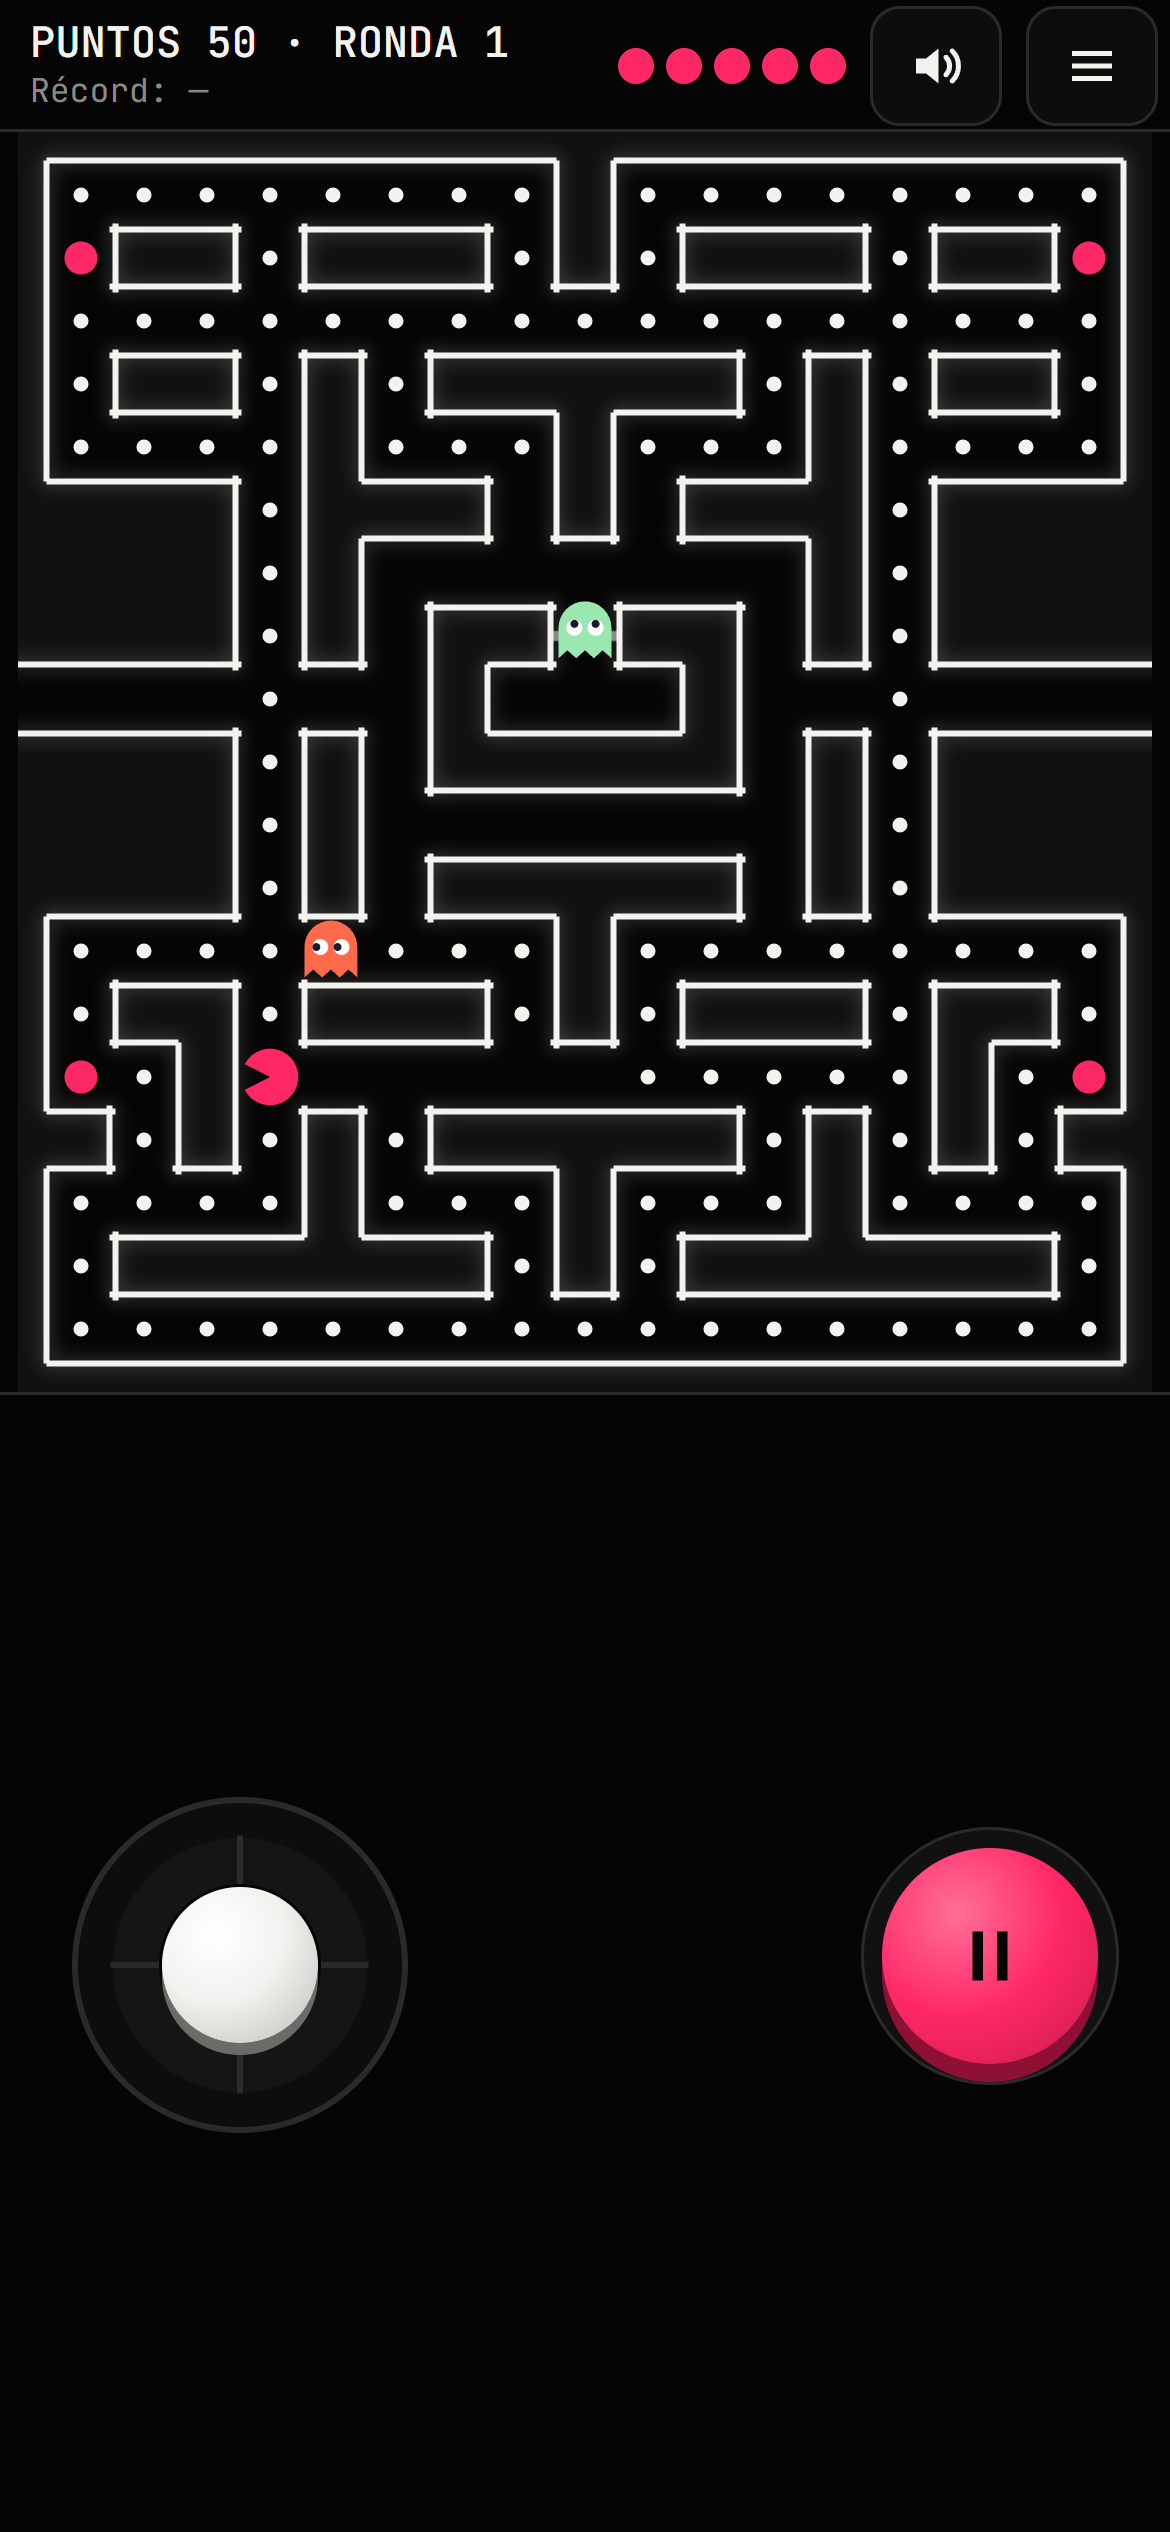
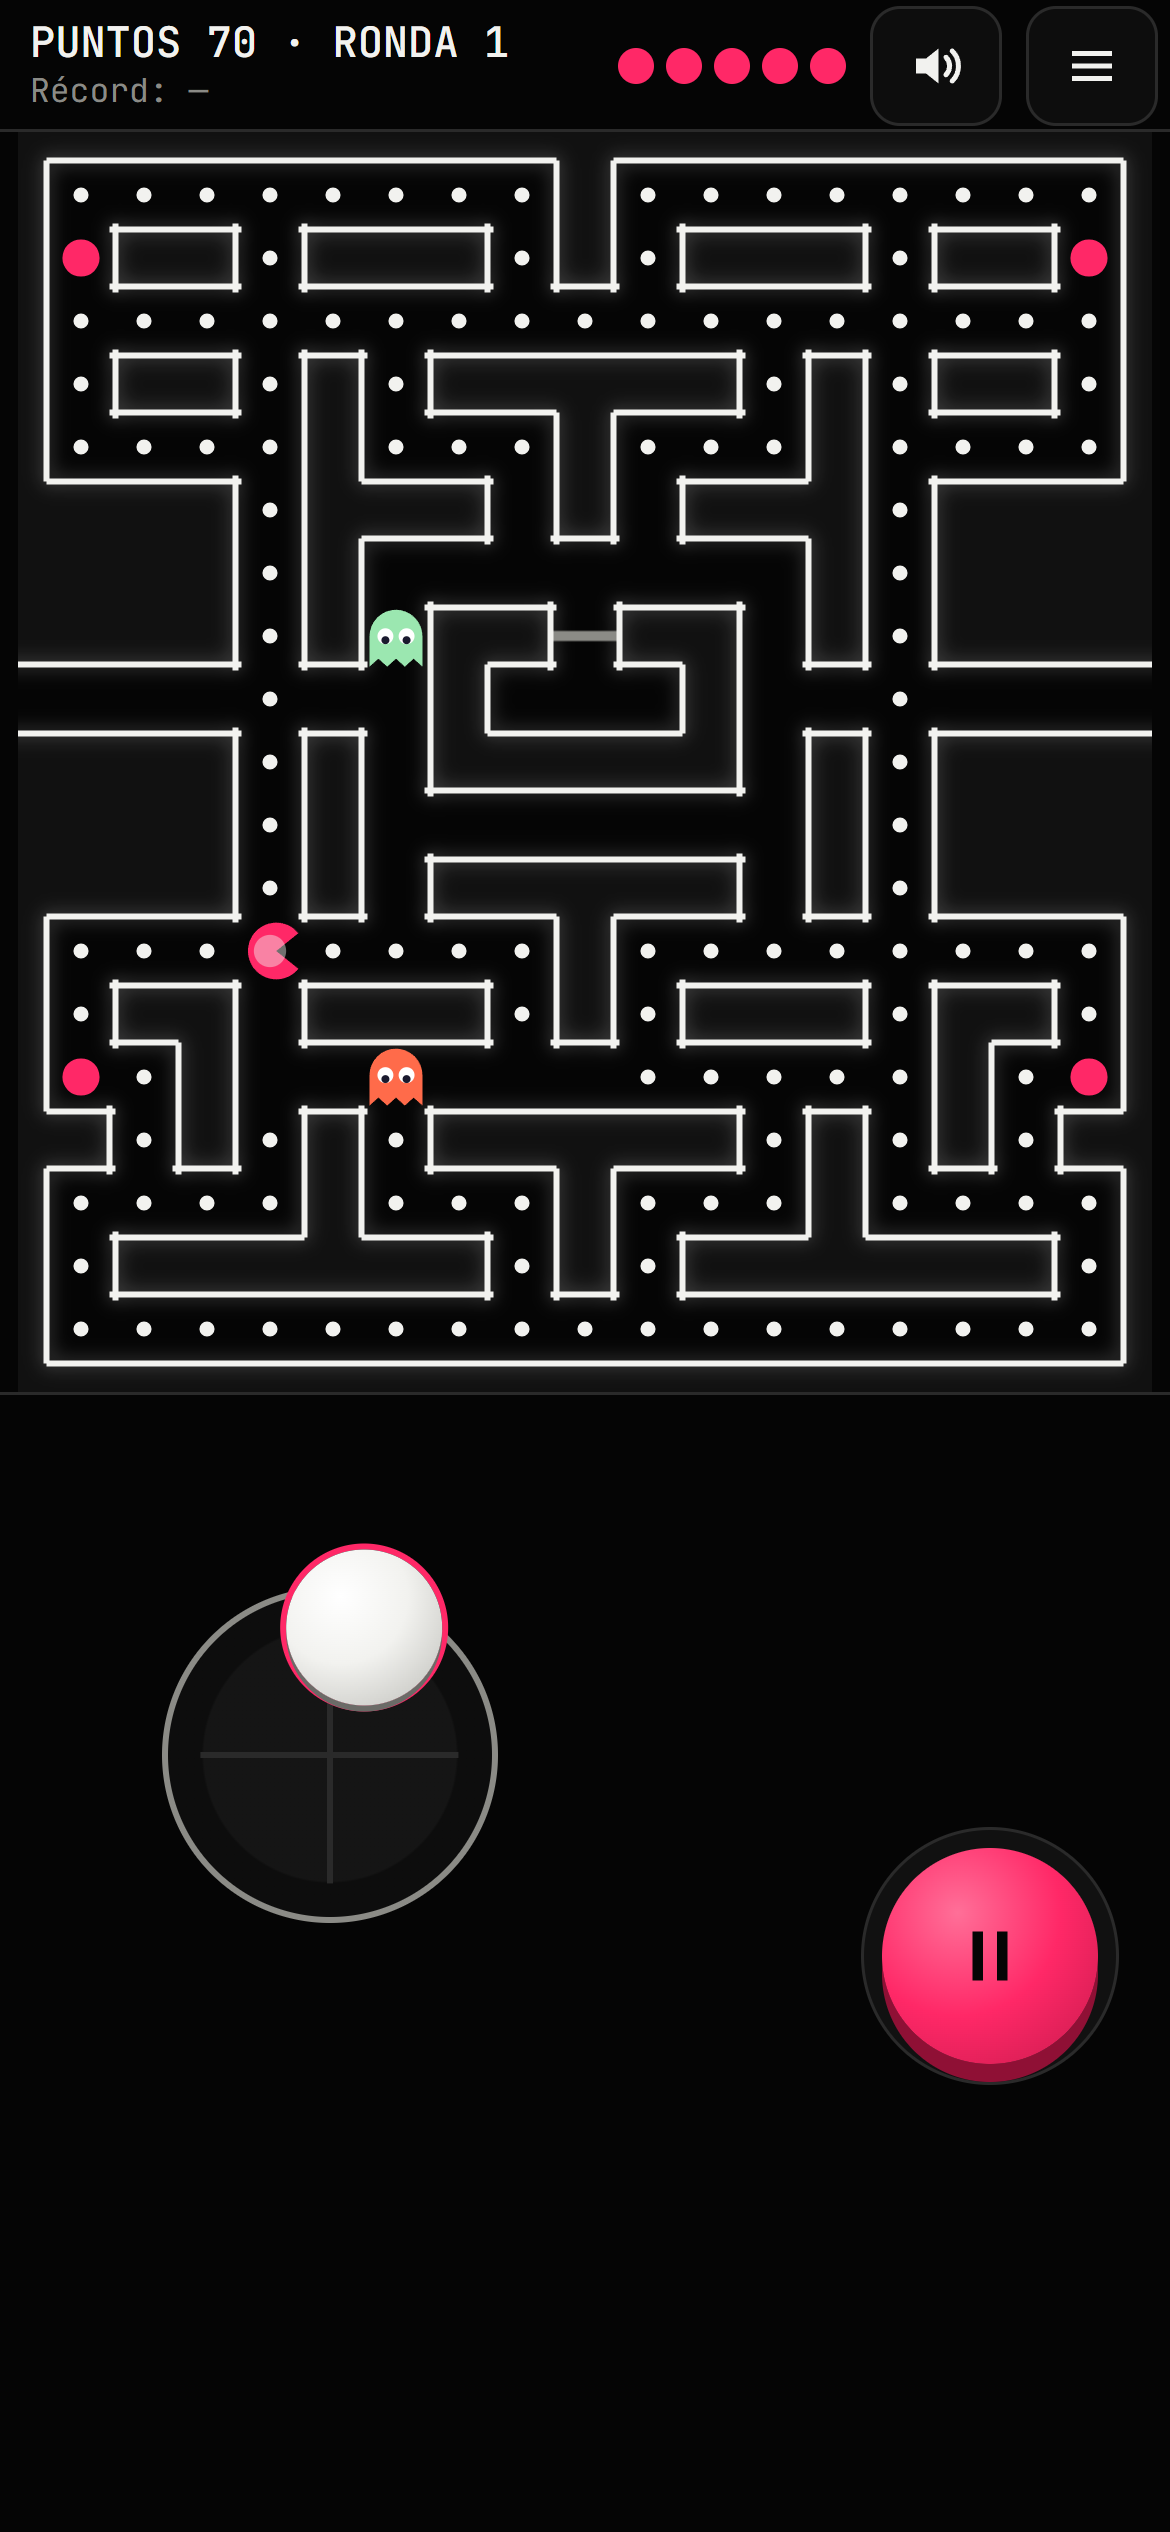
docs(cap5): joystick flotante en guia, diapositivas y prompts
Guia, diapositivas 2, 4 y 5 del capitulo 5, alt del capitulo 0 y prompt de la fase 2 describen el joystick flotante (aparece donde pones el pulgar, sigue al dedo, diagonales, vibracion si hay). Prompt de 12 lineas, Si no sabes con flotante/fijo/cruceta/solo deslizar y revisiones nuevas. Capturas nuevas: polka-man-movil, prueba-la-muestra, que-vas-a-construir.

Verificado: revisar.mjs 05 (17/17 bien) y 00 (4/4 bien), codigo 0; pnpm test 379/379; pnpm build OK.

diff --git a/slides/05-el-juego.html b/slides/05-el-juego.html
@@ -204,14 +204,14 @@
     <div class="item" style="left:110px; top:70px;"><div class="h">Qué vas a construir</div></div>
     <div class="item" style="left:110px; top:170px; width:940px; font:700 34px/1.3 var(--display);">Una app y un <span class="j-pink">smart contract</span> dentro de Polkadot, construidos con IA, en tu propio dominio <span class="j-pink">.dot</span>.</div>
     <div class="item j-rows" style="left:110px; top:360px; width:920px;">
-      <div style="grid-template-columns:240px 1fr;"><span class="k">Tu app</span><span>un juego tipo Pac-Man para el celular, con joystick, música y sonido 8 bits</span></div>
+      <div style="grid-template-columns:240px 1fr;"><span class="k">Tu app</span><span>un juego tipo Pac-Man para el celular, con joystick flotante, música y sonido 8 bits</span></div>
       <div style="grid-template-columns:240px 1fr;"><span class="k">Tu contrato</span><span>guarda el mejor puntaje; lo despliegas tú</span></div>
       <div style="grid-template-columns:240px 1fr;"><span class="k">Con IA</span><span>lo construyes fase por fase</span></div>
       <div style="grid-template-columns:240px 1fr;"><span class="k">Tu .dot</span><span>lo publicas en <span class="j-pink">tu propio dominio</span></span></div>
     </div>
     <div class="item lead j-mut" style="left:110px; top:700px; width:920px; font-size:22px;">Las reglas las decides tú en la fase 0.</div>
     <div class="item" style="left:1160px; top:60px; width:300px;">
-      <div class="j-phone"><img src="../img/cap5/polka-man-movil.png" alt="Polka-Man en un celular de 390 px: HUD con puntaje, ronda, 5 vidas y menú; el laberinto grande con Polka-Man rosa y dos fantasmas; el joystick y el botón rojo de pausa abajo"></div>
+      <div class="j-phone"><img src="../img/cap5/polka-man-movil.png" alt="Polka-Man en un celular de 390 px: HUD con puntaje, ronda, 5 vidas y menú; el laberinto grande con Polka-Man rosa y dos fantasmas; el joystick flotante bajo el dedo y el botón rojo de pausa abajo"></div>
     </div>
   </section>
 
@@ -253,7 +253,7 @@
     </div>
     <div class="panel j-checks" style="left:110px; top:320px; width:960px; padding:18px 44px;">
       <div><span class="j-box"></span><span>Empezar en la pantalla de inicio y conectar tu cuenta</span></div>
-      <div><span class="j-box"></span><span>Moverte con el joystick, también en diagonal</span></div>
+      <div><span class="j-box"></span><span>Moverte con el joystick flotante, también en diagonal</span></div>
       <div><span class="j-box"></span><span>Comer bolitas y fantasmas; cada ronda más difícil</span></div>
       <div><span class="j-box"></span><span>Música y efectos 8 bits, cada uno con su botón</span></div>
       <div><span class="j-box"></span><span>Guardar tu récord: los pasos salen en un popup</span></div>
@@ -261,7 +261,7 @@
     </div>
     <div class="item lead j-mut" style="left:110px; top:740px; width:960px; font-size:20px;">Conectada a un contrato Leaderboard ya desplegado: <span class="j-code">0x0aAf…0Ac9</span>. Juega 5 minutos y anota 3 cosas que harías distinto.</div>
     <div class="item" style="left:1170px; top:50px; width:300px;">
-      <div class="j-phone"><div class="j-url">polka-man.dot</div><img src="../img/cap5/polka-man-movil.png" alt="Polka-Man en el celular: HUD con puntaje, ronda, vidas y menú; el laberinto grande con Polka-Man rosa y dos fantasmas; el joystick y el botón rojo de pausa abajo"></div>
+      <div class="j-phone"><div class="j-url">polka-man.dot</div><img src="../img/cap5/polka-man-movil.png" alt="Polka-Man en el celular: HUD con puntaje, ronda, vidas y menú; el laberinto grande con Polka-Man rosa y dos fantasmas; el joystick flotante bajo el dedo y el botón rojo de pausa abajo"></div>
     </div>
   </section>
 
@@ -274,7 +274,7 @@
     <div class="item j-rows" style="left:500px; top:180px; width:990px;">
       <div style="grid-template-columns:250px 1fr;"><span class="k">Inicio</span><span>Jugar, Conectar cuenta, Ranking y Username</span></div>
       <div style="grid-template-columns:250px 1fr;"><span class="k">Menú</span><span>pestañas Username y Ranking, fondos opacos</span></div>
-      <div style="grid-template-columns:250px 1fr;"><span class="k">Controles</span><span>joystick con diagonales y pausa redonda</span></div>
+      <div style="grid-template-columns:250px 1fr;"><span class="k">Controles</span><span>joystick flotante con diagonales y pausa redonda</span></div>
       <div style="grid-template-columns:250px 1fr;"><span class="k">Fantasmas</span><span>por color, todos con la misma regla; a veces eligen al azar</span></div>
       <div style="grid-template-columns:250px 1fr;"><span class="k">Sonido</span><span>efectos 8 bits y música original, sin archivos</span></div>
       <div style="grid-template-columns:250px 1fr;"><span class="k">Música y Efectos</span><span>se silencian por separado</span></div>

diff --git a/slides/00-introduccion.html b/slides/00-introduccion.html
@@ -46,7 +46,7 @@
     </div>
     <div class="item lead" style="left:110px; top:710px; width:960px; font-size:22px;">Ejemplo: Polka-Man en <span class="pink">polka-man.dot</span>. En el hackatón construyes la tuya de la misma forma.</div>
     <div class="item" style="left:1160px; top:90px; width:300px;">
-      <div class="i-phone"><div class="i-url">polka-man.dot</div><img src="../img/cap5/polka-man-movil.png" alt="Polka-Man en el celular: HUD con puntaje, ronda, vidas y menú; el laberinto grande con Polka-Man rosa y dos fantasmas; el joystick y el botón rojo de pausa abajo"></div>
+      <div class="i-phone"><div class="i-url">polka-man.dot</div><img src="../img/cap5/polka-man-movil.png" alt="Polka-Man en el celular: HUD con puntaje, ronda, vidas y menú; el laberinto grande con Polka-Man rosa y dos fantasmas; el joystick flotante bajo el dedo y el botón rojo de pausa abajo"></div>
     </div>
   </section>
 

diff --git a/prompts/02-laberinto.md b/prompts/02-laberinto.md
@@ -1,14 +1,16 @@
 # Fase 2 · Laberinto y movimiento
 
-Al terminar ves tu laberinto y mueves al personaje con teclado, swipe o un joystick tipo Atari
-que entiende diagonales, con un botón redondo de pausa. 30 a 35 minutos.
+Al terminar ves tu laberinto y mueves al personaje con teclado, swipe o un joystick flotante
+que aparece donde pones el pulgar y entiende diagonales, con un botón redondo de pausa.
+30 a 35 minutos.
 
 ## Antes de pedir
 
 - ¿Qué tamaño tiene tu laberinto y cómo lo quieres editar? (p. ej. "19 x 21, escrito como texto,
   igual que la muestra").
-- ¿Con qué se mueve? (p. ej. "flechas en la PC; en el celular, swipe y un joystick tipo Atari
-  con diagonales, y un botón redondo de pausa").
+- ¿Con qué se mueve? (p. ej. "flechas en la PC; en el celular, swipe y un joystick flotante:
+  aparece donde pones el dedo en la zona de abajo y lo sigue, con diagonales; botón redondo
+  de pausa a la derecha").
 - Si el jugador pide girar antes de llegar a un cruce, ¿qué pasa? (p. ej. "gira al llegar").
 - ¿Hay túnel para salir por un lado y entrar por el otro? (p. ej. "sí, uno en medio").
 
@@ -18,15 +20,16 @@ Escribe tus respuestas en `SPEC.md`.
 
 ```text
 Lee SPEC.md (y el spec de esta parte si existe) y AGENTS.md.
-Dibuja el laberinto en el canvas y haz que el personaje se mueva por él con los controles
-de SPEC.md. Debe detenerse en las paredes y girar en los cruces.
-En el celular, un joystick que también entienda diagonales: si lo inclinas arriba y a
-la derecha, gira a la derecha en el primer cruce donde se pueda.
-Agrega un botón redondo de pausa. Si el jugador cambia de pestaña, el juego se pausa y no
-se reanuda solo.
-Todavía sin bolitas ni fantasmas.
-Si te falta algún dato o hay que decidir algo que no está en SPEC.md, pregúntame antes de
-escribir código.
+Dibuja el laberinto en el canvas y mueve al personaje con los controles de SPEC.md:
+se detiene en las paredes y gira en los cruces.
+En el celular, un joystick flotante en la zona de abajo: aparece donde tocas, la base sigue
+al dedo si te alejas y entiende diagonales (arriba y a la derecha gira a la derecha en el
+primer cruce). Al soltar se desvanece y el personaje sigue hasta la pared. Vibra un poco al
+cambiar de dirección si se puede y muestra «Toca y arrastra» en la primera ronda. La página
+no se mueve al arrastrar y otro dedo puede tocar la pausa, un botón redondo a la derecha.
+Si cambias de pestaña, se pausa y no sigue solo. Todavía sin bolitas ni fantasmas.
+Los números van en el archivo de reglas.
+Si te falta algo, pregúntame antes de escribir código.
 Primero dime tu plan.
 ```
 
@@ -38,17 +41,37 @@ contras para un principiante que lo quiere editar a mano, recomiéndame una y no
 código.
 ```
 
+```text
+No sé qué control táctil conviene en el celular. Compárame con pros y contras: joystick
+flotante (aparece donde tocas), joystick fijo en una esquina, cruceta de botones y solo
+deslizar sobre el laberinto. Piensa en el pulgar que se sale del control y en las diagonales.
+Recomiéndame uno y no escribas código.
+```
+
+Lo que suele salir: el joystick flotante no se pierde aunque el pulgar se mueva, pero no se ve
+hasta que tocas (por eso la pista); el fijo se ve siempre, pero el pulgar se sale de él; la
+cruceta es clara, pero no da diagonales; solo deslizar no tapa nada, pero cuesta encadenar giros.
+
 ## Al terminar, revisa
 
 - El personaje se detiene en las paredes y no las atraviesa.
 - Si pides girar un poco antes del cruce, gira en el cruce.
-- En DevTools, con la vista de celular, aparecen el joystick y el botón de pausa, y el swipe funciona.
-- Con el joystick casi arriba y un poco a la derecha, gira a la derecha en el siguiente cruce.
+- En DevTools, con la vista de celular, aparecen la pista «Toca y arrastra» y el botón de pausa,
+  y el swipe funciona.
+- El joystick aparece donde pones el pulgar.
+- Si el dedo sale del círculo no pierdes el control: la base te sigue.
+- En diagonal gira en cuanto hay camino: casi arriba y un poco a la derecha, gira a la derecha
+  en el siguiente cruce.
+- Al soltar, el personaje sigue hasta la pared.
+- Con un dedo en el joystick puedes tocar la pausa con otro.
+- La página no se mueve al arrastrar.
 - Al cambiar de pestaña el juego queda en pausa y no se reanuda solo al volver.
 
 ```text
-Escribe tests para estos casos: el personaje no entra a una pared, gira en un cruce y el
-juego queda en pausa al cambiar de pestaña. Después dime 3 casos raros que no consideré.
+Escribe tests para estos casos: el personaje no entra a una pared, gira en un cruce, el
+juego queda en pausa al cambiar de pestaña, el joystick aparece donde tocas, cerca del
+centro no da dirección y la base sigue al dedo cuando se aleja. Después dime 3 casos raros
+que no consideré.
 ```
 
 Revisa el `git diff` ([capítulo 4, sección 14](../contenido/04-vibe-coding.md#14-cómo-supervisar-a-la-ia))

diff --git a/contenido/05-el-juego.md b/contenido/05-el-juego.md
@@ -11,7 +11,7 @@ vas a pedirle cada parte a tu agente con prompts cortos, una fase a la vez.
 
 ## 1. Qué vas a construir
 
-<img src="../img/cap5/polka-man-movil.png" alt="Polka-Man en el celular: menú y HUD arriba, laberinto grande, joystick y botón de pausa abajo" width="220" align="right">
+<img src="../img/cap5/polka-man-movil.png" alt="Polka-Man en el celular: menú y HUD arriba, laberinto grande, joystick flotante bajo el dedo y botón de pausa abajo" width="220" align="right">
 
 Una app y un smart contract dentro de Polkadot, construidos con IA, en tu propio dominio `.dot`.
 La app es un juego tipo Pac-Man para el celular, a tu manera.
@@ -93,7 +93,7 @@ Son las decisiones de la muestra; tú tomas las tuyas en la fase 0.
 | Susto | Huyen al azar a media velocidad; 6 s en la ronda 1, 0.5 s menos cada ronda, mínimo 2 s |
 | Salida de la casa | Uno cada 3 s |
 | Fantasma comido | Vuelve a la casa como ojos y espera 5 s antes de salir; 0.5 s menos cada ronda, mínimo 2 s |
-| Controles | Joystick tipo Atari con diagonales y botón redondo de pausa; swipe; flechas o WASD |
+| Controles | Joystick flotante con diagonales (aparece donde tocas abajo y sigue al dedo; al soltar se desvanece y sigues recto; vibra un poco al cambiar de dirección si el teléfono puede) y botón redondo de pausa; swipe; flechas o WASD |
 | Sonido | Efectos 8 bits y música original hechos en código (Web Audio, sin archivos); empiezan con el primer toque; Música y Efectos se silencian por separado y se recuerdan en el dispositivo |
 | Marcador | El mejor puntaje se guarda en el contrato `Leaderboard` |
 
@@ -119,8 +119,9 @@ del HUD.
 Prueba:
 
 - Conectar tu cuenta desde la pantalla de inicio.
-- Moverte con el joystick (también en diagonal: si lo inclinas arriba y a la derecha, gira a la
-  derecha en el primer cruce donde se pueda), con swipe o con las flechas.
+- Moverte con el joystick: toca en la zona de abajo y arrastra. Aparece bajo tu dedo y lo sigue
+  si te alejas; también en diagonal (arriba y a la derecha gira a la derecha en el primer cruce
+  donde se pueda). Al soltar, Polka-Man sigue hasta la pared. También con swipe o con las flechas.
 - Comer bolitas y bolitas especiales, y comerte a los fantasmas asustados.
 - Chocar con un fantasma y perder vidas hasta el fin de la partida.
 - Vaciar el laberinto y ver que cada ronda se pone más difícil.
@@ -288,7 +289,7 @@ Así se reparte este juego en fases. Cada fase es una vuelta del ciclo de la
 |---|---|---|---|---|
 | 0 | [Define tu juego](../prompts/00-define-tu-juego.md) | `SPEC.md` sin huecos | — | 15–20 min |
 | 1 | [Tu proyecto](../prompts/01-proyecto.md) | Proyecto que arranca, `AGENTS.md`, un canvas y un test | Navegador | 20–25 min |
-| 2 | [Laberinto y movimiento](../prompts/02-laberinto.md) | Laberinto y personaje con teclado, swipe y joystick con diagonales, con pausa | Navegador | 30–35 min |
+| 2 | [Laberinto y movimiento](../prompts/02-laberinto.md) | Laberinto y personaje con teclado, swipe y joystick flotante con diagonales, con pausa | Navegador | 30–35 min |
 | 3 | [Bolitas, puntaje y rondas](../prompts/03-puntos.md) | Comer bolitas, HUD y nueva ronda al vaciar | Navegador | 20–25 min |
 | 4 | [Fantasmas y vidas](../prompts/04-fantasmas.md) | Fantasmas por color con una sola regla, vidas y pantalla de fin | Navegador | 30–40 min |
 | 5 | [Bolitas especiales y dificultad](../prompts/05-poder-y-dificultad.md) | Fantasmas asustados, espera en la casa y dificultad por ronda con tope | Navegador | 25–35 min |
@@ -311,11 +312,13 @@ el agente la "limpia"? Error típico: crea el proyecto encima y borra lo que ya 
 
 ### Fase 2 · Laberinto y movimiento
 
-El laberinto en el canvas y el personaje que se mueve con teclado, swipe y un joystick tipo Atari
-que entiende diagonales, con un botón redondo de pausa ([prompt](../prompts/02-laberinto.md)).
-Piensa: ¿qué pasa si el jugador pide girar justo antes del cruce, o inclina el joystick casi arriba
-y un poco a la derecha? Error típico: el joystick solo entiende arriba, abajo, izquierda y derecha,
-o la pausa se quita sola al volver a la pestaña.
+El laberinto en el canvas y el personaje que se mueve con teclado, swipe y un joystick flotante:
+aparece donde pones el pulgar, lo sigue si te alejas y entiende diagonales; si el teléfono puede,
+vibra un poco al cambiar de dirección. Con un botón redondo de pausa
+([prompt](../prompts/02-laberinto.md)). Piensa: ¿qué pasa si el jugador pide girar justo antes del
+cruce, o arrastra casi arriba y un poco a la derecha? Error típico: el joystick queda fijo y el
+pulgar se sale de él, al soltar el personaje se detiene, la página se mueve al arrastrar o la
+pausa se quita sola al volver a la pestaña.
 
 ### Fase 3 · Bolitas, puntaje y rondas
 
